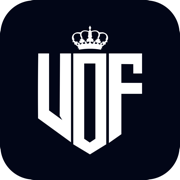
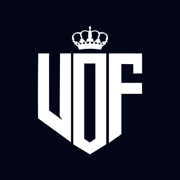
Inscription : montant payé pour « En partie » ; icônes en carré plein (coins blancs dans les aperçus WhatsApp)

diff --git a/inscription.html b/inscription.html
@@ -235,6 +235,14 @@
                         <label class="choix"><input type="radio" name="paiement" value="partie"><span>En partie</span></label>
                         <label class="choix"><input type="radio" name="paiement" value="oui"><span>Oui</span></label>
                     </div>
+                    <!-- Visible seulement pour « En partie » : champ alors obligatoire (même règle côté serveur). -->
+                    <div id="bloc-montant" class="hidden -mt-4 mb-8">
+                        <label class="champ-label" for="montantDeclare">Montant déjà payé</label>
+                        <div class="flex items-center gap-3 sm:max-w-xs">
+                            <input class="champ" type="number" id="montantDeclare" name="montantDeclare" min="1" step="1" inputmode="numeric" disabled>
+                            <span id="montant-sur" class="text-slate-400 text-sm whitespace-nowrap">€</span>
+                        </div>
+                    </div>
                     <p class="champ-label">Preuve de paiement <span class="normal-case tracking-normal font-medium text-slate-600">(facultatif)</span></p>
                     <label class="fichier" for="preuve">
                         <input type="file" id="preuve" name="preuve" accept="image/jpeg,image/png,image/webp,image/heic,image/heif,application/pdf">
@@ -463,6 +471,23 @@
                 }
             });
 
+            // Paiement « En partie » : on demande le montant déjà payé, borné par la cotisation de
+            // la catégorie choisie. ⚠ Barème aligné sur CATEGORIES dans le Worker de l'outil admin.
+            const COTISATIONS = { baby: 250, u15: 175, u17: 175 };
+            const blocMontant = document.getElementById('bloc-montant');
+            const montant = document.getElementById('montantDeclare');
+            function majMontant() {
+                const partie = form.querySelector('input[name=paiement]:checked')?.value === 'partie';
+                const due = COTISATIONS[form.querySelector('input[name=categorie]:checked')?.value];
+                blocMontant.classList.toggle('hidden', !partie);
+                montant.disabled = !partie;
+                montant.required = partie;
+                if (!partie) montant.value = '';
+                if (due) montant.max = String(due - 1); else montant.removeAttribute('max');
+                document.getElementById('montant-sur').textContent = due ? `€ sur ${due} €` : '€';
+            }
+            form.querySelectorAll('input[name=paiement], input[name=categorie]').forEach((r) => r.addEventListener('change', majMontant));
+
             // Relecture avant envoi : récapitulatif des noms, téléphones et e-mails (texte brut,
             // jamais de HTML : ce sont des saisies du visiteur). Résout true sur « Oui, valider ».
             function confirmerEnvoi() {
@@ -536,6 +561,7 @@
             document.getElementById('autre-enfant').addEventListener('click', () => {
                 ['enfantPrenom', 'enfantNom', 'dateNaissance'].forEach((id) => { document.getElementById(id).value = ''; });
                 form.querySelectorAll('input[name=categorie], input[name=paiement]').forEach((r) => { r.checked = false; });
+                majMontant();
                 preuve.value = '';
                 preuveNom.textContent = texteFichier;
                 armer();

diff --git a/CLAUDE.md b/CLAUDE.md
@@ -275,9 +275,7 @@ des parents ; la page n'est volontairement pas dans la navigation.
   ces joueurs s'inscrivent via la RBFA.
 - **Remplis automatiquement par le serveur** : cotisation due (barème : Baby-foot 250 €,
   U15/U17 175 €), date d'inscription à l'heure de Bruxelles (la colonne Saison en
-  dépend), « Créé par : Formulaire en ligne (oasisforest.be) ». « Montant payé » reste à
-  0 : la déclaration du parent (« Paiement déclaré (parent) » + « Preuve de paiement »)
-  n'est jamais prise pour un encaissement, c'est le club qui valide.
+  dépend), « Créé par : Formulaire en ligne (oasisforest.be) ». « Montant payé » reprend le montant déclaré par la famille (voir plus bas) : la fiche arrive « À valider » et c'est le club qui confirme.
 - **Champs demandés** : identité de l'enfant, catégorie, parent (nom, téléphone qui sert
   aussi de contact d'urgence, e-mail), paiement déclaré, preuve facultative. Pas d'infos
   médicales, de carte d'identité ni de nationalité (choix du club). L'autorisation à
@@ -306,6 +304,11 @@ des parents ; la page n'est volontairement pas dans la navigation.
 - **Vocabulaire inclusif** (demande du club) : « Personne de contact » / « Second contact »,
   jamais « parent » dans les textes visibles. Les identifiants techniques (`parentNom`…)
   et les colonnes Notion gardent leur nom.
+- **Montant payé déclaré** : « Oui » = cotisation entière, « En partie » = montant saisi
+  (champ `montantDeclare`, obligatoire, entre 1 € et la cotisation − 1), « Non » = 0 →
+  écrit dans « Montant payé (€) ». La fiche arrive « À valider » : c'est le club qui
+  confirme en la validant, et la recette Finances est créée à ce moment-là. Barème dupliqué
+  côté page (`COTISATIONS`) : à garder aligné sur `CATEGORIES` du Worker.
 - Paiement proposé dans l'ordre **Non, En partie, Oui** ; case newsletter **avant** le
   consentement. Sous les champs e-mail, boutons de **suggestion de messagerie** dès le
   « @ » (liste `DOMAINES` du script de la page), pas de `<datalist>` (mal rendu sur iPhone).
